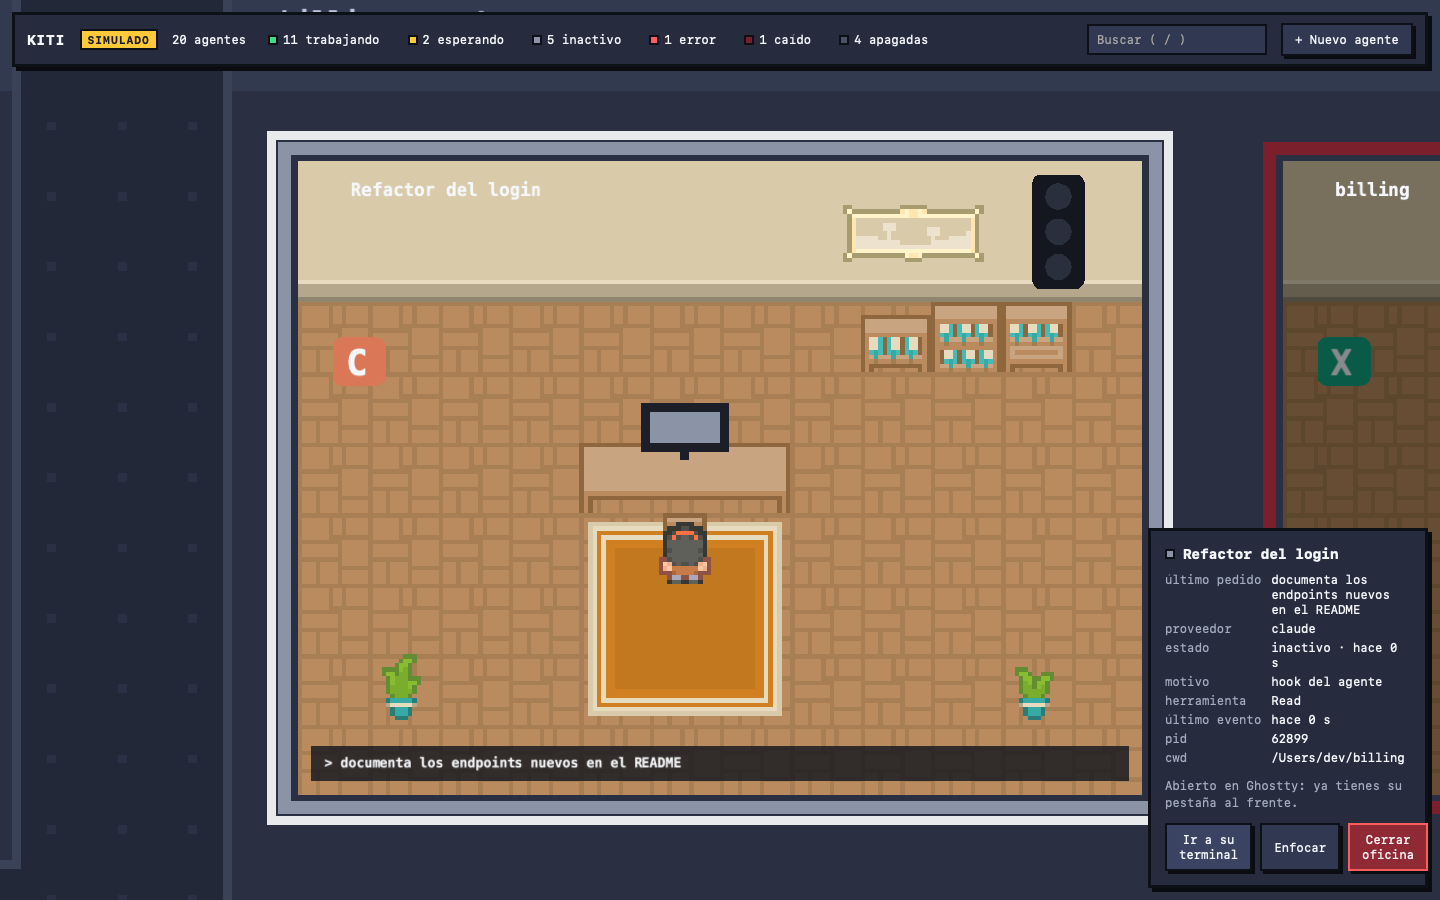
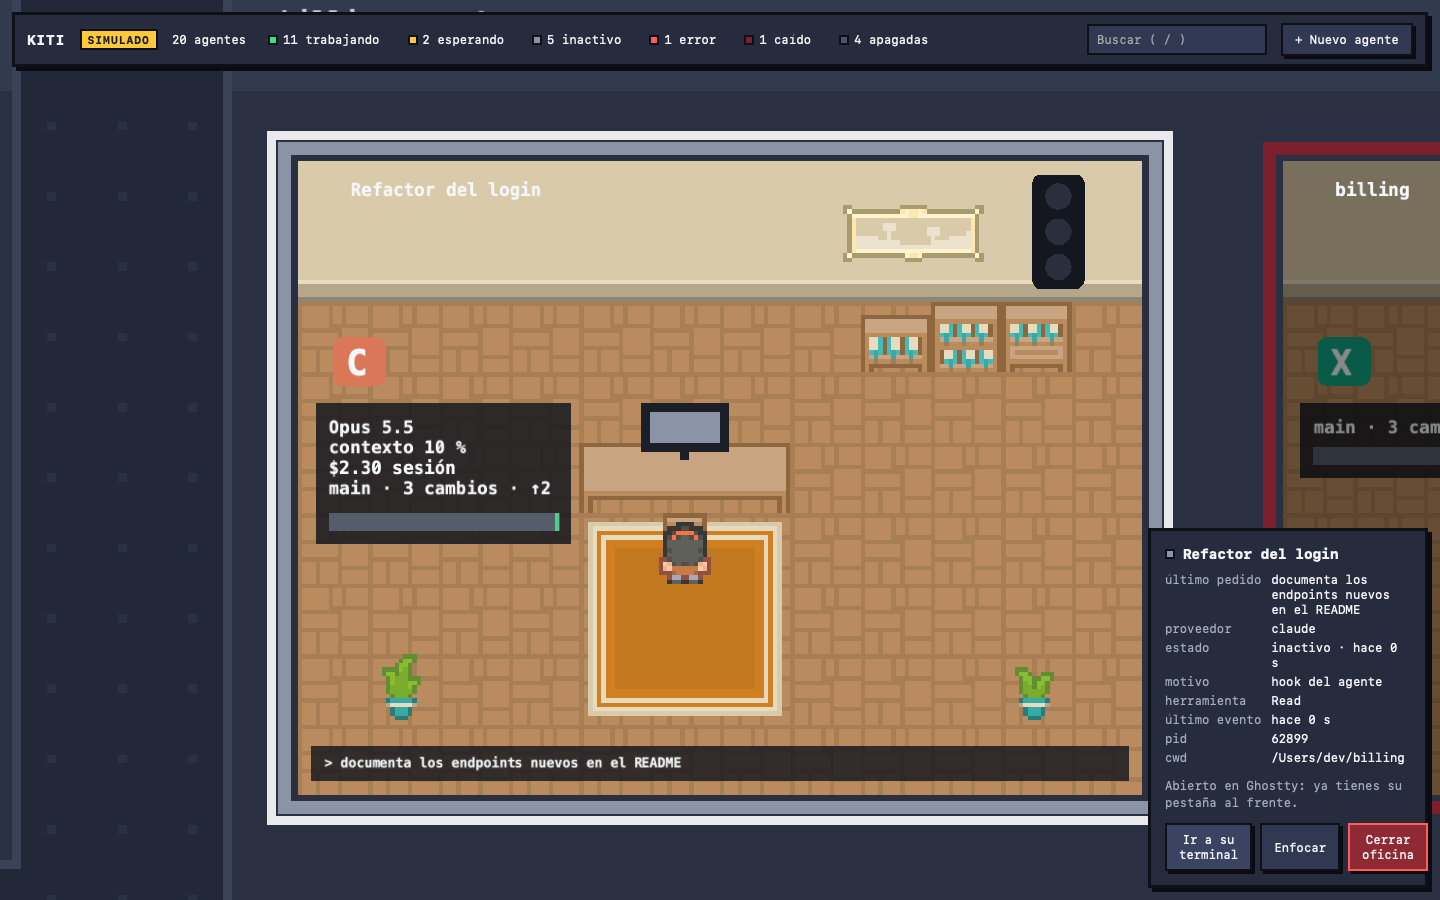
docs: document quota and office board, link the DMG directly
README (English and Spanish) and the website cover the usage quota and
the office board (Hitos 18 and 19), with the opt-in status line and the
commands Kiti runs. The release workflow also attaches Kiti_universal.dmg,
so releases/latest/download/Kiti_universal.dmg is a stable download link,
now used by the READMEs, the website and the release notes.

Changed region(s): [[0.2188, 0.4356, 0.4062, 0.6222], [0.875, 0.4356, 1.0, 0.5289]]

diff --git a/site/index.html b/site/index.html
@@ -335,7 +335,7 @@
       <h1>Your coding agents, <span class="hl">as an office.</span></h1>
       <p class="lede">Every running Claude Code, Codex CLI, Antigravity CLI and Gemini CLI agent becomes a room on one pixel-art map. A traffic light on each door tells you who is working, who is done and who needs you.</p>
       <div class="ctas">
-        <a class="btn" href="https://github.com/xavieracostapolo/kiti/releases/latest">⬇ Download for macOS</a>
+        <a class="btn" href="https://github.com/xavieracostapolo/kiti/releases/latest/download/Kiti_universal.dmg">⬇ Download for macOS</a>
         <a class="btn alt" href="demo/?sim=20&amp;seed=42&amp;conversations=1">▶ Try the live demo</a>
       </div>
       <p class="note">Universal build for Apple Silicon and Intel, ad-hoc signed (see <a href="#start">install notes</a>). The demo runs in your browser with 20 simulated agents.</p>
@@ -398,6 +398,9 @@
           <div class="card"><div class="icon" style="background: var(--codex)">↗</div><h3>Jump to its terminal</h3><p>For an agent started elsewhere, one click shows its exact tab in Ghostty or Terminal.app.</p></div>
           <div class="card"><div class="icon" style="background: var(--claude)">↺</div><h3>Resume conversations</h3><p>Closed Claude conversations from the last 7 days stay as dark offices. One click resumes them.</p></div>
           <div class="card"><div class="icon" style="background: var(--error)">!</div><h3>Notifications</h3><p>macOS tells you when an agent asks for permission, finishes a long turn, fails or crashes. Click it to land on that office.</p></div>
+          <div class="card"><div class="icon" style="background: var(--waiting)">%</div><h3>Usage quota</h3><p>How much of your Claude plan (5 h and weekly) and Antigravity quota is left, right in the top bar, with a warning at 20 %.</p></div>
+          <div class="card"><div class="icon" style="background: var(--working)">▥</div><h3>Office board</h3><p>Zoom all the way in for the model, context and session cost, the project's git status and the last hour of activity.</p></div>
+          <div class="card"><div class="icon" style="background: var(--dead); color: var(--text)">×</div><h3>Close safely</h3><p>Ends an agent after a confirmation, and checks pid, start time, user and command first, so it never hits a reused PID.</p></div>
           <div class="card"><div class="icon" style="background: var(--floor-a)">▤</div><h3>Pixel art by Kenney</h3><p>CC0 tiles for rooms, furniture and people. Each agent keeps its person; the rug shows its provider.</p></div>
         </div>
       </div>
@@ -414,8 +417,8 @@
             <figcaption>The «esperando» (waiting) counter is on: everything else is dimmed.</figcaption>
           </figure>
           <figure>
-            <div class="frame"><img src="img/focus.png" alt="Close-up of a Claude office: a person at the desk, a Grep speech bubble and a green light" loading="lazy" width="1440" height="900"></div>
-            <figcaption>A working Claude agent. The bubble shows the current tool.</figcaption>
+            <div class="frame"><img src="img/board.png" alt="Close-up of a Claude office with its board: model, context, session cost, git status and the last hour; the top bar shows the Claude and Antigravity quota" loading="lazy" width="1600" height="1000"></div>
+            <figcaption>The office board at the closest zoom, and the quota in the top bar.</figcaption>
           </figure>
           <figure>
             <div class="frame"><img src="img/external.png" alt="Side panel of an agent opened outside Kiti, with the button to go to its terminal" loading="lazy" width="1440" height="900"></div>
@@ -494,6 +497,7 @@
           <li><strong>Read-only towards agents.</strong> Every hook gets an empty 204. Kiti never approves or denies anything.</li>
           <li><strong>No prompts in logs.</strong> Prompts, code and tool output are never logged or saved.</li>
           <li><strong>Safe to close.</strong> Before each signal, Kiti verifies pid, start time, user and command, so it never kills a reused PID.</li>
+          <li><strong>Opt-in extras.</strong> The Claude quota and board read its status line only if you run <code>mise run statusline:install</code>; your status line looks the same, and one command restores it.</li>
           <li><strong>Fails open.</strong> The forwarder has a 150 ms budget and always exits 0. If Kiti is closed, your CLI does not notice.</li>
         </ul>
       </div>
@@ -503,7 +507,7 @@
       <div class="wrap">
         <div class="kicker">GET STARTED</div>
         <h2>Download it, or build it.</h2>
-        <p class="sub">Get the universal DMG from the <a href="https://github.com/xavieracostapolo/kiti/releases/latest">latest release</a> and drag Kiti to Applications. The build has an ad-hoc signature, not an Apple Developer ID, so macOS blocks it the first time: open it once and click <strong>Open Anyway</strong> in System Settings → Privacy &amp; Security, or run <code>xattr -dr com.apple.quarantine /Applications/Kiti.app</code>. To build it yourself:</p>
+        <p class="sub"><a href="https://github.com/xavieracostapolo/kiti/releases/latest/download/Kiti_universal.dmg">Download the universal DMG</a> (or pick a version in <a href="https://github.com/xavieracostapolo/kiti/releases">Releases</a>) and drag Kiti to Applications. The build has an ad-hoc signature, not an Apple Developer ID, so macOS blocks it the first time: open it once and click <strong>Open Anyway</strong> in System Settings → Privacy &amp; Security, or run <code>xattr -dr com.apple.quarantine /Applications/Kiti.app</code>. To build it yourself:</p>
         <div class="frame code">
           <button class="copy" type="button" data-copy="code-start">COPY</button>
 <pre id="code-start"><span class="c"># tools (tmux is optional, for persistent sessions)</span>

diff --git a/README.es.md b/README.es.md
@@ -11,7 +11,7 @@ Claude Code, Codex CLI, Antigravity CLI y Gemini CLI en un solo mapa, con un sem
 ![Plataforma: macOS](https://img.shields.io/badge/plataforma-macOS-lightgrey.svg)
 ![Tauri v2](https://img.shields.io/badge/Tauri-v2-24c8db.svg)
 
-[**Descargar para macOS**](https://github.com/xavieracostapolo/kiti/releases/latest) · [**Prueba la demo**](https://xavieracostapolo.github.io/kiti/demo/) · [Web](https://xavieracostapolo.github.io/kiti/) · [Read in English](README.md)
+[**Descargar para macOS**](https://github.com/xavieracostapolo/kiti/releases/latest/download/Kiti_universal.dmg) · [**Prueba la demo**](https://xavieracostapolo.github.io/kiti/demo/) · [Web](https://xavieracostapolo.github.io/kiti/) · [Read in English](README.md)
 
 ![Kiti con 20 agentes simulados agrupados por proyecto, cada oficina con su título y su semáforo](site/img/map.png)
 
@@ -32,12 +32,14 @@ Cuando tienes varios agentes de código abiertos, les pierdes la pista. Uno espe
 - **Ir a su terminal.** Para un agente abierto fuera de Kiti, «Ir a su terminal» muestra su pestaña exacta en Ghostty o Terminal.app. Otras apps, como VS Code, pasan al frente.
 - **Retomar conversaciones.** Las conversaciones cerradas de Claude de los últimos 7 días quedan como oficinas apagadas. Un clic ejecuta `claude --resume` en una terminal de Kiti.
 - **Barra de menú y avisos.** La barra de menú muestra los contadores. macOS te avisa cuando un agente pide permiso, termina un turno largo, falla o se cae, solo si Kiti no está al frente. Un clic en el aviso abre Kiti en esa oficina.
+- **Cuota de uso.** La barra superior muestra cuánto queda de tu plan de Claude (ventanas de 5 h y semanal) y de tu cuota de Antigravity, y Kiti avisa una vez cuando a un límite semanal le queda el 20 % o menos.
+- **Tablero de la oficina.** Al acercarte a una oficina ves el modelo, el contexto usado y el coste de la sesión (Claude), la rama de git del proyecto, sus cambios y los commits por subir o por bajar, y una línea de tiempo de la última hora. Solo aparece en el zoom más cercano, para no recargar la vista general.
 - **Pixel art.** Salas, muebles y personas salen de los tilesheets CC0 de [Kenney](https://kenney.nl). Cada agente tiene siempre la misma persona, y la alfombra lleva el color de su proveedor.
 - **Cerrar una oficina.** Termina el proceso del agente tras una confirmación. Kiti verifica `(pid, start_time, uid, cmd)` antes de cada señal, así que nunca mata un PID reutilizado.
 
 <table>
 <tr>
-<td><img src="site/img/focus.png" alt="Oficina de Claude trabajando: una persona en el escritorio, un globo de Grep y el semáforo en verde"></td>
+<td><img src="site/img/board.png" alt="Oficina de Claude de cerca con su tablero: modelo, contexto, coste de la sesión, estado de git y la última hora; la barra superior muestra la cuota de Claude y Antigravity"></td>
 <td><img src="site/img/filter.png" alt="Filtro «esperando» activo: las dos oficinas amarillas destacan y el resto se atenúa"></td>
 </tr>
 <tr>
@@ -66,6 +68,9 @@ Todo se queda en tu máquina. Kiti no tiene servidor ni telemetría.
 - El servidor de hooks escucha solo en `127.0.0.1` y exige un token por instalación. Comprueba `Host` y `Origin`, limita el tamaño del cuerpo y siempre responde `204`: Kiti nunca devuelve una decisión a un agente.
 - Los prompts, el código y las salidas de herramientas nunca se registran ni se guardan. El título y el último pedido solo viajan del core a la UI.
 - Al primer arranque, Kiti añade sus hooks HTTP a `~/.claude/settings.json` y deja intactos los tuyos. `mise run hooks:uninstall` los quita. Los hooks de Codex, Antigravity y Gemini son opcionales.
+- La cuota y el tablero de Claude necesitan que su status line pase por Kiti. Es opcional: `mise run statusline:install` pone `kiti-hook` delante de tu comando de status line, que sigue mostrando lo mismo, y `mise run statusline:uninstall` lo restaura. De ese JSON Kiti solo se queda con los límites de uso, el modelo, el contexto y el coste.
+- Si `agy` está instalado, Kiti ejecuta `agy -p /usage --output-format json` al arrancar y cada 5 minutos para leer la cuota de Antigravity. La llamada no gasta tokens.
+- Cada 15 s, Kiti ejecuta `git --no-optional-locks status` en los proyectos con agentes vivos, así que nunca les quita el `index.lock`.
 
 Para reportar vulnerabilidades, sigue [SECURITY.md](SECURITY.md).
 
@@ -75,7 +80,7 @@ Kiti funciona en macOS. Windows está previsto; Linux no.
 
 ### Descarga
 
-Descarga `Kiti_<versión>_universal.dmg` del [último release](https://github.com/xavieracostapolo/kiti/releases/latest). Funciona en Apple Silicon e Intel. Abre el DMG y arrastra Kiti a Aplicaciones.
+[Descarga `Kiti_universal.dmg`](https://github.com/xavieracostapolo/kiti/releases/latest/download/Kiti_universal.dmg) (último release), o elige una versión en [Releases](https://github.com/xavieracostapolo/kiti/releases). Funciona en Apple Silicon e Intel. Abre el DMG y arrastra Kiti a Aplicaciones.
 
 El release tiene **firma ad-hoc**: no está firmado con un Developer ID de Apple ni notarizado, así que macOS lo bloquea la primera vez. Abre Kiti una vez y pulsa **Abrir igualmente** en **Ajustes del Sistema → Privacidad y seguridad**. O ejecuta:
 
@@ -96,7 +101,7 @@ mise install && mise exec -- pnpm install
 mise run ui:dev                        # http://127.0.0.1:5173/?sim=20&seed=42
 ```
 
-O abre la [demo](https://xavieracostapolo.github.io/kiti/demo/). Parámetros de URL: `sim` (número de agentes), `seed`, `conversations=1` (conversaciones cerradas) y `terminals=1` (terminal falsa).
+O abre la [demo](https://xavieracostapolo.github.io/kiti/demo/). Parámetros de URL: `sim` (número de agentes), `seed`, `conversations=1` (conversaciones cerradas), `terminals=1` (terminal falsa) y `quota=1` (cuota falsa).
 
 ### Ejecuta la app
 
@@ -116,6 +121,8 @@ mise run app:bundle    # genera Kiti.app y la copia al Escritorio
 | Codex CLI | Hooks `command` a través del forwarder `kiti-hook` | `mise run hooks:install-codex` y luego confía en el hook en `/hooks` |
 | Antigravity CLI | Hooks `command` a través del forwarder `kiti-hook`, y su base SQLite local para los permisos y los títulos | `mise run hooks:install-antigravity` |
 | Gemini CLI | Hooks `command` a través del forwarder `kiti-hook` | `mise run hooks:install-gemini` |
+
+Para la cuota y el tablero de Claude, ejecuta también `mise run statusline:install` (ver [Privacidad y seguridad](#privacidad-y-seguridad)).
 
 `mise run hooks:status` muestra qué está instalado. `mise run scan` muestra qué procesos ve Kiti como agentes y por qué. El forwarder falla en abierto: tiene un plazo de 150 ms, siempre sale con `0` y no hace nada si Kiti está cerrado.
 
@@ -159,6 +166,7 @@ El diseño está en ADRs, desde la [elección del stack](docs/decisiones/0001-st
 - [x] Pixel art con los tilesheets de [Kenney](https://kenney.nl)
 - [x] Antigravity CLI, el sucesor de Gemini CLI para cuentas gratuitas
 - [x] Build universal descargable (firma ad-hoc)
+- [x] Cuota de uso de Claude y Antigravity, y tablero de oficina con sesión, git y la última hora
 - [ ] Soporte para Windows
 - [ ] Versiones firmadas y notarizadas
 

diff --git a/README.md b/README.md
@@ -11,7 +11,7 @@ Claude Code, Codex CLI, Antigravity CLI and Gemini CLI in one map, with a traffi
 ![Platform: macOS](https://img.shields.io/badge/platform-macOS-lightgrey.svg)
 ![Tauri v2](https://img.shields.io/badge/Tauri-v2-24c8db.svg)
 
-[**Download for macOS**](https://github.com/xavieracostapolo/kiti/releases/latest) · [**Try the live demo**](https://xavieracostapolo.github.io/kiti/demo/) · [Website](https://xavieracostapolo.github.io/kiti/) · [Leer en español](README.es.md)
+[**Download for macOS**](https://github.com/xavieracostapolo/kiti/releases/latest/download/Kiti_universal.dmg) · [**Try the live demo**](https://xavieracostapolo.github.io/kiti/demo/) · [Website](https://xavieracostapolo.github.io/kiti/) · [Leer en español](README.es.md)
 
 ![Kiti showing 20 simulated agents grouped by project, each office with its title and a traffic light](site/img/map.png)
 
@@ -32,12 +32,14 @@ When you run several coding agents at once, you lose track of them. One waits fo
 - **Jump to its terminal.** For an agent started outside Kiti, «Ir a su terminal» shows its exact tab in Ghostty or Terminal.app. Other apps, such as VS Code, are brought to the front.
 - **Resume conversations.** Closed Claude conversations from the last 7 days stay as dark offices. One click runs `claude --resume` in a Kiti terminal.
 - **Menu bar and notifications.** The menu bar shows the counters. macOS notifies you when an agent asks for permission, finishes a long turn, fails or crashes, but only when Kiti is not in front. Click the notification to open Kiti on that office.
+- **Usage quota.** The top bar shows how much of your Claude plan (5-hour and weekly windows) and of your Antigravity quota is left, and Kiti notifies you once when a weekly limit drops to 20 % or less.
+- **Office board.** Zoom in on an office to see the model, context used and session cost (Claude), the project's git branch, changes and commits to push or pull, and a timeline of the last hour. It only appears at the closest zoom, so the overview stays clean.
 - **Pixel art.** Rooms, furniture and people come from [Kenney](https://kenney.nl)'s CC0 tilesheets. Each agent always gets the same person, and the rug takes the colour of its provider.
 - **Close an office.** Ends the agent process after a confirmation. Kiti checks `(pid, start_time, uid, cmd)` before each signal, so it never kills a reused PID.
 
 <table>
 <tr>
-<td><img src="site/img/focus.png" alt="Close-up of a working Claude office: a person at the desk, a Grep speech bubble and a green light"></td>
+<td><img src="site/img/board.png" alt="Close-up of a Claude office with its board: model, context, session cost, git status and the last hour; the top bar shows the Claude and Antigravity quota"></td>
 <td><img src="site/img/filter.png" alt="The waiting filter is on: the two yellow offices stand out and the others are dimmed"></td>
 </tr>
 <tr>
@@ -66,6 +68,9 @@ Everything stays on your machine. Kiti has no server and no telemetry.
 - The hook server listens on `127.0.0.1` only and needs a per-install token. It checks `Host` and `Origin`, limits the body size and always answers `204`: Kiti never sends a decision back to an agent.
 - Prompts, code and tool output are never logged or saved. The title and the last request travel from the core to the UI only.
 - On first start, Kiti adds its HTTP hooks to `~/.claude/settings.json` and leaves your own hooks untouched. `mise run hooks:uninstall` removes them. Hooks for Codex, Antigravity and Gemini are opt-in.
+- The quota and the office board for Claude need its status line to pass through Kiti. This is opt-in: `mise run statusline:install` puts `kiti-hook` in front of your own status line command, which still prints the same output, and `mise run statusline:uninstall` restores it. Kiti keeps only the rate limits, model, context and cost from that JSON.
+- If `agy` is installed, Kiti runs `agy -p /usage --output-format json` at start and every 5 minutes to read the Antigravity quota. The call uses no tokens.
+- Every 15 s, Kiti runs `git --no-optional-locks status` in the projects with live agents, so it never takes `index.lock` from them.
 
 Report vulnerabilities as described in [SECURITY.md](SECURITY.md).
 
@@ -75,7 +80,7 @@ Kiti runs on macOS. Windows is planned; Linux is not.
 
 ### Download
 
-Get `Kiti_<version>_universal.dmg` from the [latest release](https://github.com/xavieracostapolo/kiti/releases/latest). It runs on Apple Silicon and Intel. Open the DMG and drag Kiti to Applications.
+[Download `Kiti_universal.dmg`](https://github.com/xavieracostapolo/kiti/releases/latest/download/Kiti_universal.dmg) (latest release), or pick a version in [Releases](https://github.com/xavieracostapolo/kiti/releases). It runs on Apple Silicon and Intel. Open the DMG and drag Kiti to Applications.
 
 The release has an **ad-hoc signature**: it is not signed with an Apple Developer ID and not notarized, so macOS blocks it the first time. Open Kiti once, then click **Open Anyway** in **System Settings → Privacy & Security**. Or run:
 
@@ -96,7 +101,7 @@ mise install && mise exec -- pnpm install
 mise run ui:dev                        # http://127.0.0.1:5173/?sim=20&seed=42
 ```
 
-Or open the [live demo](https://xavieracostapolo.github.io/kiti/demo/). URL parameters: `sim` (number of agents), `seed`, `conversations=1` (closed conversations), `terminals=1` (fake terminal).
+Or open the [live demo](https://xavieracostapolo.github.io/kiti/demo/). URL parameters: `sim` (number of agents), `seed`, `conversations=1` (closed conversations), `terminals=1` (fake terminal), `quota=1` (fake quota).
 
 ### Run the app
 
@@ -116,6 +121,8 @@ mise run app:bundle    # build Kiti.app and copy it to the Desktop
 | Codex CLI | `command` hooks through the `kiti-hook` forwarder | `mise run hooks:install-codex`, then trust the hook in `/hooks` |
 | Antigravity CLI | `command` hooks through the `kiti-hook` forwarder, plus its local SQLite store for permission prompts and titles | `mise run hooks:install-antigravity` |
 | Gemini CLI | `command` hooks through the `kiti-hook` forwarder | `mise run hooks:install-gemini` |
+
+For the Claude quota and the office board, also run `mise run statusline:install` (see [Privacy and security](#privacy-and-security)).
 
 `mise run hooks:status` shows what is installed. `mise run scan` shows which processes Kiti sees as agents, and why. The forwarder fails open: it has a 150 ms budget, always exits `0`, and does nothing when Kiti is closed.
 
@@ -159,6 +166,7 @@ The design is documented in ADRs (in Spanish), from the [stack choice](docs/deci
 - [x] Pixel art from [Kenney](https://kenney.nl) tilesheets
 - [x] Antigravity CLI, the successor of Gemini CLI for free accounts
 - [x] Downloadable universal build (ad-hoc signature)
+- [x] Usage quota for Claude and Antigravity, and an office board with session, git and the last hour
 - [ ] Windows support
 - [ ] Signed and notarized releases
 

diff --git a/docs/release.md b/docs/release.md
@@ -6,7 +6,7 @@ El workflow [`release.yml`](../.github/workflows/release.yml) genera Kiti.app pa
 - Firmado con **Developer ID Application** y hardened runtime.
 - **Notarizado** por Apple, con el ticket grapado en la app y en el DMG.
 
-Un tag `vX.Y.Z` crea un **release en borrador** con el DMG, la app en `.zip` y `SHA256SUMS.txt`. La firma depende de los secrets:
+Un tag `vX.Y.Z` crea un **release en borrador** con el DMG (dos copias: `Kiti_X.Y.Z_universal.dmg` y `Kiti_universal.dmg`, el nombre fijo al que apunta el README con `releases/latest/download/`), la app en `.zip` y `SHA256SUMS.txt`. La firma depende de los secrets:
 
 | Secrets | Firma | Qué ve el usuario |
 |---|---|---|

diff --git a/.github/release-notes-adhoc.md b/.github/release-notes-adhoc.md
@@ -1,6 +1,6 @@
 ## Install
 
-Download `Kiti_<version>_universal.dmg` (Apple Silicon and Intel), open it and drag **Kiti** to **Applications**.
+**[⬇ Download Kiti for macOS](https://github.com/xavieracostapolo/kiti/releases/latest/download/Kiti_universal.dmg)** (`Kiti_universal.dmg`, Apple Silicon and Intel). The same file is attached below with the version in its name. Open it and drag **Kiti** to **Applications**.
 
 This build has an **ad-hoc signature**: it is not signed with an Apple Developer ID and not notarized. macOS blocks it the first time you open it. To allow it, use one of these options:
 
